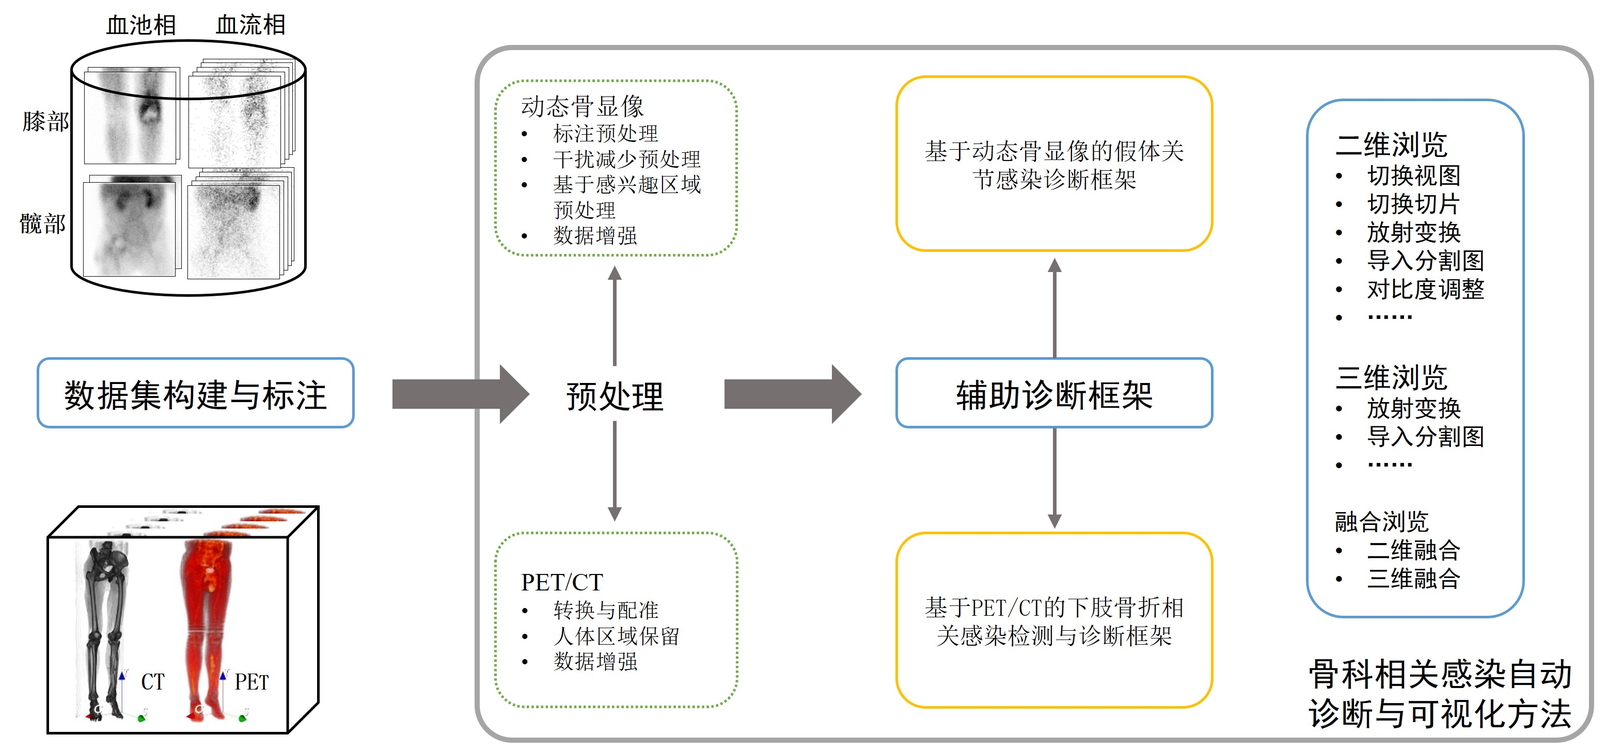
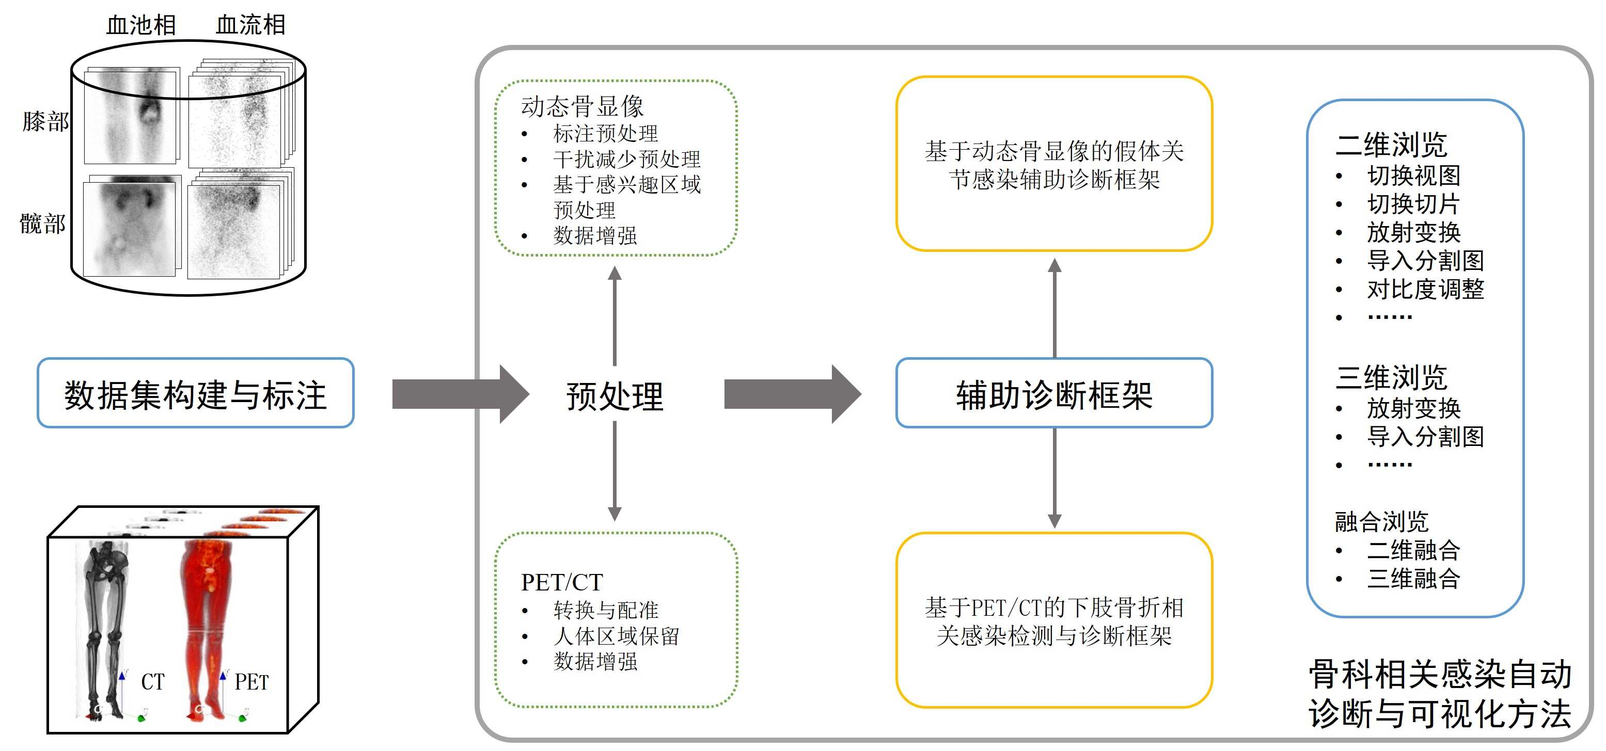
进一步的精修

diff --git a/data/chap01.tex b/data/chap01.tex
@@ -3,13 +3,13 @@
 
 \section{课题来源}
 
-本课题来源于上海市公共卫生重点学科建设项目“基于新技术、新方法的放射卫生检测适宜技术研究”（编号：GWVI-11.1-40）。本文的研究受到上海市第六人民医院核医学科的数据支持和专家的技术支持并获得上海市第六人民医院伦理委员会的批准（编号：SH6H-2022-KY-113(K)）。
+本课题来源于上海市公共卫生重点学科建设项目“基于新技术、新方法的放射卫生检测适宜技术研究”（编号：GWVI-11.1-40）。本文的研究受到上海市第六人民医院核医学科的专家技术支持和数据支持并获得上海市第六人民医院伦理委员会的批准（编号：SH6H-2022-KY-113(K)）。
 
 \section{研究背景与意义}
 
 骨骼是一种坚硬的器官\cite{morgan2021bone}，构成了大多数脊椎动物骨骼的一部分。骨骼保护身体的其他器官，产生红细胞和白细胞，储存矿物质，为身体提供结构和支持，并使活动成为可能。骨骼有各种形状和大小，有复杂的内部和外部结构\cite{de2021vertebrate}。它们重量轻，但坚固耐用，具有多种功能。然而，骨骼系统也不免于面临各种疾病和损伤的威胁，其中感染性疾病是其中之一。
 
-骨科相关感染是骨科手术和损伤后常见的并发症，涉及骨骼、关节、软组织等。主要包括骨髓炎、关节炎、滑膜炎、以及骨折相关感染和假体关节感染等。其中，骨折相关感染和假体关节感染是骨科手术中可怕且严峻的并发症\cite{sidiropoulos2022viral}。假体关节感染发生在人工关节（如人工髋关节、人工膝关节）的植入区域，对于新植入假体关节的患者来说有2\%-2.4\%的发病率，对于经历过翻修手术的患者可能达到20\%\cite{sconfienza2019diagnosis}。作为关节置换术后潜在的致命并发症之一\cite{niccoli2017bone,usuelli2019infections}，假体关节感染可引起慢性疼痛、关节功能降低和其他导致患者身体不适的症状\cite{aleksyniene2022role}。假体关节感染常用的诊断方式有实验室检测、血清学、关节液抽取、微生物培养，但这些方法都没有完美的敏感性和特异性\cite{meermans2010there,parvizi2012mark,fink2013high,paul20142013,fink2018preoperative,claassen2014preoperative}。通常来说治疗方式包括手术清除感染组织、更换假体以及抗生素治疗。
+骨科相关感染是骨科手术和损伤后常见的并发症，涉及骨骼、关节、软组织等。主要包括骨髓炎、关节炎、滑膜炎、以及骨折相关感染和假体关节感染等。其中，骨折相关感染和假体关节感染是骨科手术中可怕且严重的并发症\cite{sidiropoulos2022viral}。假体关节感染发生在人工关节（如人工髋关节、人工膝关节）的植入区域，对于新植入假体关节的患者来说有2\%-2.4\%的发病率，对于经历过翻修手术的患者可能达到20\%\cite{sconfienza2019diagnosis}。作为关节置换术后潜在的致命并发症之一\cite{niccoli2017bone,usuelli2019infections}，假体关节感染可引起慢性疼痛、关节功能降低和其他导致患者身体不适的症状\cite{aleksyniene2022role}。假体关节感染常用的诊断方式有实验室检测、血清学、关节液抽取、微生物培养，但这些方式都没有完美的敏感性和特异性\cite{meermans2010there,parvizi2012mark,fink2013high,paul20142013,fink2018preoperative,claassen2014preoperative}。假体关节感染的治疗方式包括手术清除感染组织、更换假体以及抗生素治疗。
 
 另一方面，骨折相关感染曾称为创伤后骨髓炎，是骨损伤或创伤性手术后最严重的肌肉骨骼并发症之一\cite{govaert2020diagnosing}，可能涉及手术创口感染、软组织受损引起的感染等，导致患病率增加、医疗费用昂贵和严重的诊断挑战\cite{metsemakers2017infection}。在骨折手术后，骨折相关感染的发病率为1\%-19\%\cite{ktistakis2014infection, malhotra2014open}。随着病情的发展，骨髓炎可伴有软组织感染，脓毒性关节炎伴或不伴皮肤窦道等一系列临床表现\cite{bhoil2019role}，可能需要抗生素治疗、手术清创以及骨折修复等综合治疗手段。
 
@@ -24,7 +24,7 @@
   \label{fig:chap01_DBS}
 \end{figure}
 
-对于假体关节感染，核医学成像可以显示人工关节周围是否存在异常的代谢活动，揭示潜在的感染区域。如图\ref{fig:chap01_DBS}，锝亚甲基二膦酸盐(\(^{99m}\)Tc-Methylene DiphosPhonate, \(^{99m}\)Tc-MDP)动态骨显像，也称之为骨三相，是核医学成像中第一个用于诊断假体关节感染的广泛可靠且简单影像模态\cite{niccoli2017bone}。Verberne等人\cite{verberne2016accuracy}的研究表明骨显像诊断全髋置换手术后的假体关节感染具有80\%的灵敏度和69\%的特异度。Kumar等人\cite{kumar2016comparative}发现动态骨显像在评估脓毒性的（或疼痛的）髋关节假体的敏感性、特异性和准确性分别为81\%、86\%和82\%。Zhang等人\cite{zhang2022temporal}通过在血流相中设定阈值的方法发现动态骨显像对膝关节假体感染的诊断灵敏度为94.3\%，特异度为56.0\%。根据文献和临床实践，动态骨显像诊断假体关节感染通常具有较高的敏感性，但特异性较低，尤其是经历过全膝置换手术的患者。
+对于假体关节感染，核医学成像可以显示人工关节周围是否存在异常的代谢活动，揭示潜在的感染区域。如图\ref{fig:chap01_DBS}，锝亚甲基二膦酸盐(\(^{99m}\)Tc-Methylene DiphosPhonate, \(^{99m}\)Tc-MDP)动态骨显像，也称之为骨三相，是核医学成像中第一个用于诊断假体关节感染的广泛、可靠且简单的影像模态\cite{niccoli2017bone}。Verberne等人\cite{verberne2016accuracy}的研究表明骨显像诊断全髋置换手术后的假体关节感染具有80\%的灵敏度和69\%的特异度。Kumar等人\cite{kumar2016comparative}发现动态骨显像在评估脓毒性的（或疼痛的）髋关节假体的敏感性、特异性和准确性分别为81\%、86\%和82\%。Zhang等人\cite{zhang2022temporal}通过在血流相中设定阈值的方法发现动态骨显像对膝关节假体感染的诊断灵敏度为94.3\%，特异度为56.0\%。根据以上文献和临床实践，动态骨显像诊断假体关节感染通常具有较高的敏感性，但特异性较低，尤其是经历过全膝置换手术的患者。
 
 \begin{figure}[ht]
   \centering
@@ -37,13 +37,13 @@
 
 近几年来，人工智能不断地发展，其在医学影像方面的应用也逐渐变成了关注的焦点。越来越多的深度学习方法被应用于医学影像领域的各种任务之中，如影像降噪，疾病分类，器官、组织和病灶的分割与检测、患者的预后效果预测等等\cite{ZSZD202307032,YJTY202304021}。以卷积神经网络（Convolutional Neural Network, CNN）、循环神经网络（Recurrent Neural Network，RNN）和基于注意力机制的Transformer为代表的深度学习方法因其优异的性能和较短的推理时间，经常被用来辅助核医学医生更迅速、准确地诊断病灶区域，减轻工作量。Liu等人\cite{liu2022diagnosis}（2022）提出了一种创新性多尺度CNN用于PET中阿尔茨海默病的诊断。Takahashi等人\cite{takahashi2022deep}（2022）提出了一个在PET/CT中对乳腺癌进行诊断的深度学习模型。然而，目前并没有用于假体关节感染和骨折相关感染这类骨科相关感染的自动化辅助诊断方法。为了有效地构建这种自动化辅助诊断方法，有几个问题必须前瞻性地加以考虑：
 
-（1）数据集缺失。目前在网络上缺乏针对假体关节感染的动态骨显像数据集和针对骨折相关感染的PET/CT数据集。此外，医学影像数据集通常规模较小，来源相对单一，模型训练具有挑战性。
+（1）数据集缺失。目前在网络上缺乏公开的针对假体关节感染的动态骨显像数据集和针对骨折相关感染的PET/CT数据集。此外，医学影像数据集通常规模较小，来源相对单一，模型训练具有挑战性。
 
-（2）髋关节的动态骨显像中存在生理上的高摄取区域，如膀胱和肾脏，这可能会使神经网络在进行分类时难以真正学习有用的信息并专注于病灶区域。其次，动态骨显像中包含血流相、血池相和延迟相（图\ref{fig:chap01_DBS}），且血流相和血池相中的图像序列具有时序性。因此，需要深入考虑如何充分利用动态骨显像的这些特点。最后，神经网络是一个缺乏解释的黑盒，这使得医生很难理解其预测的依据。
+（2）髋关节的动态骨显像中存在生理上的高摄取区域，如膀胱和肾脏，这可能会使神经网络在进行分类时难以学习真正有用的信息并专注于病灶区域。其次，动态骨显像中包含血流相、血池相和延迟相（图\ref{fig:chap01_DBS}），且血流相和血池相中的图像序列具有时序性。因此，需要深入考虑如何充分利用动态骨显像的这些特点。最后，神经网络是一个缺乏解释的黑盒，这使得医生很难理解其预测的依据。
 
 （3）尽管CT可以记录骨骼以及附近软组织的变化，但对骨折相关感染不太敏感。而PET中可以显示人体不同区域的代谢活性，且较高的标准摄取值反映了患有骨折相关感染的风险增加，但需要与炎症和愈合区分开来。其次，骨折相关感染的病灶区域仅占PET/CT整体影像的一小部分区域，且病灶的形状和位置多样，摄取的形式和程度也有所区别。因此，需要考虑到这些特征复杂性和多样性。最后，PET和CT都是三维的影像数据，这使得可以更全面地了解患者的解剖结构和生理活动。然而，这也给数据处理和模型设计带来了挑战。
 
-（4）骨科相关感染的自动化辅助诊断方法应以简洁直观、易于操作的形式呈现，尤其对缺乏计算机和人工智能专业知识的用户尤为重要。首先，该方法需要整合骨科相关感染的自动诊断流程，具备智能分析的能力，以协助医生更快速地做出准确的诊断决策。其次，该方法需要提供图形化界面，以方便用户操作。最后，医学影像的可视化是必不可少的功能之一，并且提供一些辅助功能，满足大多数医学影像模态的需求，以便用户可直观地阅览影像。
+（4）骨科相关感染的自动化辅助诊断方法应以简洁直观、易于操作的形式呈现，尤其对缺乏计算机和人工智能专业知识的用户尤为重要。首先，该方法需要整合骨科相关感染的自动诊断流程，具备智能分析的能力，以协助医生更快速地做出准确的诊断决策。其次，该方法需要提供图形化界面，以方便用户操作。最后，医学影像的可视化是必不可少的功能之一，并且提供一些影像分析功能，满足大多数医学影像模态的需求，以便用户可直观地阅览影像。
 
 由此，本文提出了四个主要的研究目标：
 
@@ -51,7 +51,7 @@
 
 （2）设计一个在动态骨显像上基于深度学习的假体关节感染辅助诊断框架，自动得出诊断结果，并通过类激活图等方法给医生提供决策依据和可信度。
 
-（3）设计一个在三维PET/CT上基于深度学习的骨折相关感染检测与诊断框架，从PET/CT中自动定位出病灶区域并判断出病灶区域是否存在感染。
+（3）设计一个在三维PET/CT上基于深度学习的骨折相关感染检测与诊断框架，从PET/CT中自动定位病灶区域并判断是否存在感染。
 
 （4）设计一个骨科相关感染的自动诊断与可视化方法，不仅提供智能化功能辅助非专业人员进行假体关节感染和骨折相关感染的自动诊断功能，还能够满足用户简单直观地阅览与分析医学影像。
 
@@ -66,13 +66,13 @@
 
 根据1.2小节所述，本文围绕动态骨显像假体关节感染诊断分类任务、PET/CT骨折相关感染检测诊断任务以及骨科相关感染的自动诊断与可视化方法展开研究，主要研究内容和创新点如图\ref{fig:chap01_research}所示，包含以下四个部分：
 
-（1）\textbf{数据集的构建与预处理方法的设计：}鉴于假体关节感染的动态骨显像数据集和骨折相关感染的PET/CT数据集的匮乏，本文作者与上海市第六人民医院核医学科合作，共同构建了两个重要的数据集。动态骨显像数据集纳入了在2016年1月至2021年6月期间455名患者的影像数据和相应的诊断报告，而PET/CT影像数据集则包含了2016年11月到2021年12月期间的281名患者的影像数据和诊断报告。在医学专家的指导下，通过仔细审查诊断报告和利用标注工具ITK-SNAP对数据集进行了详尽的标注工作，以确保数据的精准性和可靠性。针对动态骨显像和PET/CT影像，本文分别构建了高效的数据预处理方法。其中，动态骨显像采用了三种预处理算法和数据增强手段，而PET/CT影像则包括转换与配准、人体区域保留以及数据增强。这些预处理方法优化图像质量、标准化数据格式，并减缓无关区域和生理高摄取区域对模型性能的不良影响。
+（1）\textbf{数据集的构建与预处理方法的设计：}鉴于假体关节感染的动态骨显像数据集和骨折相关感染的PET/CT数据集的匮乏，本文作者与上海市第六人民医院核医学科合作，共同构建了两个重要的数据集。动态骨显像数据集纳入了在2016年1月至2021年6月期间455名患者的影像数据和相应的诊断报告，而PET/CT影像数据集则包含了2016年11月到2021年12月期间的281名患者的影像数据和诊断报告。在医学专家的指导下，通过仔细阅览诊断报告和使用标注工具ITK-SNAP对数据集进行了详尽的标注工作，以确保数据的精准性和可靠性。针对动态骨显像和PET/CT影像，本文分别构建了高效的数据预处理方法。其中，动态骨显像采用了三种预处理算法和数据增强手段，而PET/CT影像则包括转换与配准、人体区域保留以及数据增强。这些预处理方法优化图像质量、标准化数据格式，并减缓无关区域和生理高摄取区域对模型性能的不良影响。
 
 （2）\textbf{基于\(^{99m}\)Tc-MDP动态骨显像的假体关节感染辅助诊断框架：}为解决动态骨显像中假体关节感染诊断任务，构建了一种辅助诊断分类框架，由数据预处理和分类模型DBS-eNet组成。DBS-eNet结合了三维卷积和ConvLSTM，可以更有效地利用动态骨显像中不同相和相中的时序性图像序列。三维卷积用于在时序上提取不同相下每一张图像的生理摄取形态特征，ConvLSTM则捕捉和丰富单一图像的生理形态摄取特征，同时捕获图像序列中生理代谢的差异变化特征。实验结果表明，在五折交叉验证中，该框架在假体膝关节感染和假体髋关节感染的诊断任务上优于其他CNN，分类准确率分别达到了86.48\%和86.33\%；在独立验证中，该框架在假体膝关节感染上分类准确率达到了87.74\%，相比核医学专家们提升了13.55\%；在假体髋关节感染上分类准确率达到了86.36\%，与核医学专家们一致。统计学分析表明，该框架的诊断性能在假体膝关节感染上优于核医学专家，在假体髋关节上与核医学专家相当。
 
-（3）\textbf{基于\(^{18}\)F-FDG PET/CT三维影像的下肢骨折相关感染检测与诊断框架：}为解决PET/CT影像中下肢骨折相关感染诊断任务，本文提出了一种全自动两阶段的检测与诊断框架3DFRINet。其中，3DFRINet 由病灶检测网络和病灶诊断分类网络构成。通过双分支设计和注意力模块，病灶检测网络能够捕获和融合不同模态的多尺度细节特征，从而精准地检测出病灶区域。病灶诊断分类网络通过最大强度投影将立体影像转换为平面图像，在获取有效特征的同时，对候选区域进行进一步挖掘，以捕捉骨折相关感染的代谢形态特征，从而实现对其准确的分类。实验结果表明，3DFRINet在下肢PET/CT影像中病灶检测性能优于其他YOLO模型，其AP\(_{25}\)达到了0.9234。在骨折相关感染病灶诊断分类任务中，该方法上达到了91.55\%的分类准确率和0.9250的F1，相比较于与初级核医学医生分别提升了11.27\%和0.1045，比高级核医学医生分别提升了4.32\%和0.0419。统计学分析表明，3DFRINet具有与初级核医学医生更好或相同的诊断能力，与高级核医学医生相当的诊断性能。
+（3）\textbf{基于\(^{18}\)F-FDG PET/CT三维影像的下肢骨折相关感染检测与诊断框架：}为解决PET/CT影像中下肢骨折相关感染诊断任务，本文提出了一种全自动两阶段的检测与诊断框架3DFRINet。其中，3DFRINet 由病灶检测网络和病灶诊断分类网络构成。通过双分支设计和注意力模块，病灶检测网络能够捕获和融合不同模态的多尺度细节特征，从而精准地检测出病灶区域。病灶诊断分类网络通过最大强度投影将立体影像转换为平面图像，在获取有效特征的同时，对候选区域进行进一步挖掘，以捕捉骨折相关感染的代谢形态特征，从而实现准确的分类。实验结果表明，3DFRINet在下肢PET/CT影像中病灶检测性能优于其他YOLO模型，其AP\(_{25}\)达到了0.9234。在骨折相关感染病灶诊断分类任务中，该方法上达到了91.55\%的分类准确率和0.9250的F1，相比较于与初级核医学医生分别提升了11.27\%和0.1045，比高级核医学医生分别提升了4.32\%和0.0419。统计学分析表明，3DFRINet具有与初级核医学医生更好或相同的诊断能力，与高级核医学医生相当的诊断性能。
 
-（4）\textbf{骨科相关感染的自动诊断与可视化方法：}为了构建一个假体关节感染和骨折相关感染的自动化辅助诊断方法，本文采用PyQt6框架，设计了一个骨科相关感染的自动诊断与可视化方法。该方法旨在为医生提供一款功能强大的辅助工具，具备全面而便捷的影像阅览和智能分析功能。在智能分析方面，该方法整合了（2）和（3）中的框架，以支持假体关节感染的诊断分类和骨折相关感染的病灶自动检测和分类。在影像阅览方面，该方法支持二维、三维和融合可视化，以满足不同医学影像模态的需求。二维可视化兼容大多数医学影像模态，提供显示视图、坐标和所在坐标值的信息，切换视图、几何变换等功能；三维可视化支持PET和CT，提供了旋转、缩放等功能；融合可视化支持PET和CT融合阅览，提供了二维和三维可视化功能。
+（4）\textbf{骨科相关感染的自动诊断与可视化方法：}为了完善整个假体关节感染和骨折相关感染的自动化辅助诊断流程，本文采用PyQt6框架，设计了一个骨科相关感染的自动诊断与可视化方法。该方法旨在为医生提供一款功能强大的辅助工具，具备全面而便捷的影像阅览和智能分析功能。在智能分析方面，该方法整合了（2）和（3）中的框架，以支持假体关节感染的诊断分类和骨折相关感染的自动检测和分类。在影像阅览方面，该方法支持二维、三维和融合可视化，以满足不同医学影像模态的需求。二维可视化兼容大多数医学影像模态，提供展示视图、坐标和所在坐标影像值的信息，切换视图、几何变换等功能；三维可视化支持PET和CT，提供了旋转、缩放等功能；融合可视化支持PET和CT融合阅览，提供了二维和三维可视化功能。
 
 \section{本文的整体结构}
 
@@ -89,9 +89,9 @@
 
 第二章介绍了与本文研究内容相关的近几年国内外相关工作，总结了目前医学影像中分类和检测任务的研究进展，最后阐述了本文中假体关节感染和骨折相关感染诊断任务的特点，分析了任务的特殊性和现有的可行方法。
 
-第三章从问题定义出发，详细介绍了基于\(^{99m}\)Tc-MDP动态骨显像的假体关节感染诊断框架。内容包括数据预处理方法、深度学习方法中模型的整体结构、损失函数以及用于展示模型可解释性的可视化方法。接着，通过一系列实验评估了该诊断框架的有效性和较好的诊断性能。
+第三章从问题定义出发，详细介绍了基于\(^{99m}\)Tc-MDP动态骨显像的假体关节感染辅助诊断框架。内容包括数据预处理方法、深度学习方法中模型的整体结构、损失函数以及用于展示模型可解释性的可视化方法。接着，通过一系列实验评估了该诊断框架的有效性和较好的诊断性能。
 
-第四章同样从问题定义入手，详细介绍了基于\(^{18}\)F-FDG PET/CT三维影像的下肢骨折相关感染检测与诊断框架。内容包括数据预处理方法和框架设计。随后，通过一系列实验评估了该框架在病灶检测和诊断方面的出色表现。
+第四章同样从问题定义入手，详细介绍了基于\(^{18}\)F-FDG PET/CT三维影像的下肢骨折相关感染检测与诊断框架。内容包括数据预处理方法和框架设计。随后，通过一系列实验评估了该框架在病灶检测和诊断方面的良好表现。
 
 第五章详细地介绍了骨科相关感染的自动诊断与可视化方法，拥有智能影像分析与影像阅览功能。
 

diff --git a/data/abstract.tex b/data/abstract.tex
@@ -1,17 +1,17 @@
 % 中英文摘要和关键字
 \begin{cabstract}
 
-    骨科相关感染（假体关节感染和骨折相关感染）会导致慢性疼痛和其他造成患者不适的症状，对人类的身心健康危害的同时还有高昂的医疗费用。因此，对患者的及时评估与准确诊断是治疗、预防并发症和良好预后的关键。核医学影像是骨科相关感染中常见的诊断手段之一。动态骨显像用于诊断假体关节感染，PET/CT则用于诊断骨折相关感染。医生在动态骨显像中观察每张图像中的组织摄取形态和不同图像之间时序上的生理代谢差异这些影像学特征作为依据来进行评估与诊断。在PET/CT中则通过观察软组织的损伤程度、骨骼的断裂程度、以及高摄取区域呈现的形式和程度等多方面的影像学特征，进行综合分析并作出最终的诊断决策。
+    骨科相关感染（假体关节感染和骨折相关感染）会导致慢性疼痛和其他造成患者不适的症状，对人类的身心健康危害的同时还需要高昂的医疗费用。因此，对患者的及时评估与准确诊断是治疗、预防并发症和良好预后的关键。核医学影像是骨科相关感染中常见的诊断手段之一。动态骨显像用于诊断假体关节感染，PET/CT则用于诊断骨折相关感染。医生在动态骨显像中观察每张图像中的组织摄取形态和不同图像之间时序上的生理代谢差异这些影像学特征作为依据来进行评估与诊断。在PET/CT中则通过观察软组织的损伤程度、骨骼的断裂程度、以及高摄取区域呈现的形式等多方面的影像学特征，进行综合分析并作出最终的诊断决策。
 
-    随着人工智能的发展，越来越多计算机视觉的深度学习方法以其优异的性能、较高的准确率和较短的推理时间的特点被逐步应用于医学影像之中。然而，对于骨科相关感染，目前还没有基于深度学习的全自动诊断系统的相关研究。采用深度学习方法来实现该系统时，需要去研究解决一系列问题。例如数据集的缺乏、动态骨显像存在生理高摄取区域的干扰、具有时序性的动态骨显像包含三种相、PET/CT中病灶形态和位置多样且只占据整个影像中一小部分以及PET和CT均为三维影像等等。因此，鉴于核医学影像及相关疾病的特征，可以将骨科相关感染的自动诊断系统视为医学影像的计算机辅助诊断领域中的检测与分类任务。针对上述问题，本文的主要研究内容总结如下：
+    随着人工智能的发展，越来越多计算机视觉的深度学习方法以其优异的性能、较高的准确率和较短的推理时间等特点被逐步应用于医学影像之中。然而，对于骨科相关感染，目前还没有基于深度学习的全自动诊断方法的相关研究。采用深度学习来实现该方法时，需要去研究解决一系列问题。例如数据集的缺乏、动态骨显像存在生理高摄取区域的干扰、具有时序性的动态骨显像包含三种相、PET/CT中病灶形态和位置多样且只占据整个影像中一小部分以及PET和CT均为三维影像等等。因此，鉴于核医学影像及相关疾病的特征，可以将骨科相关感染的自动诊断方法视为医学影像的计算机辅助诊断领域中的检测与分类任务。针对上述问题，本文的主要研究内容总结如下：
 
     （1）\textbf{数据集的构建与预处理方法的设计：}对于骨科相关感染数据集的缺乏，本文作者与上海市第六人民医院核医学科合作，共同构建了两个关键数据集。其中，动态骨显像数据集纳入了从2016年1月至2021年6月之间455名患者的影像数据和相应的完整诊断报告，而PET/CT影像数据集纳入了2016年11月到2021年12月之间281名患者的相关数据。在医学专家的指导下，对数据集进行了详细的标注工作，以确保数据的准确性和可靠性。其次，针对动态骨显像和PET/CT影像，分别设计了有效的数据预处理方法，用于优化图像质量、标准化数据格式，以及降低无关区域和生理高摄取区域对模型性能的不利影响。
 
-    （2）\textbf{基于\(^{99m}\)Tc-MDP动态骨显像的假体关节感染辅助诊断框架：}针对动态骨显像中假体关节感染诊断任务，设计了结合三维卷积和ConvLSTM的辅助诊断分类模型DBS-eNet，可以更好地利用动态骨显像中不同相以及相中的时序性图像序列。其中，三维卷积在时序上提取不同相下每一张图像的生理摄取形态特征，而ConvLSTM捕捉和丰富单一图像生理形态摄取特征的同时还捕获图像序列中生理代谢的差异变化特征。实验结果表明，对于假体膝关节感染和假体髋关节感染的诊断任务，该框架在五折交叉验证中优于其他卷积神经网络，准确率分别达到了86.48\%和86.33\%；在独立验证中与核医学专家们比较，准确率在膝关节上提升了13.55\%，髋关节上保持一致。
+    （2）\textbf{基于\(^{99m}\)Tc-MDP动态骨显像的假体关节感染辅助诊断框架：}针对动态骨显像中假体关节感染诊断任务，构建了一种辅助诊断框架，由数据预处理和分类模型DBS-eNet组成。DBS-eNet结合了三维卷积和ConvLSTM，可以更好地利用动态骨显像中不同相以及相中的时序性图像序列。其中，三维卷积在时序上提取不同相下每一张图像的生理摄取形态特征，而ConvLSTM捕捉和丰富单一图像生理形态摄取特征的同时还捕获图像序列中生理代谢的差异变化特征。实验结果表明，对于假体膝关节感染和假体髋关节感染的诊断任务，该框架在五折交叉验证中优于其他卷积神经网络，准确率分别达到了86.48\%和86.33\%；在独立验证中与核医学专家们比较，准确率在膝关节上提升了13.55\%，髋关节上保持一致。
 
     （3）\textbf{基于\(^{18}\)F-FDG PET/CT三维影像的下肢骨折相关感染检测与诊断框架：}针对PET/CT影像中下肢骨折相关感染诊断任务，提出了由病灶检测网络和病灶诊断分类网络构成的两阶段框架3DFRINet。病灶检测网络通过双分支设计和注意力模块可以结合两个模态的多尺度细节特征，从而准确地检测出病灶区域。病灶诊断分类网络通过最大强度投影将立体影像转换为平面图像，获取有效特征的同时对候选区域进一步挖掘病灶的代谢形态特征，实现对骨折相关感染的准确分类。实验结果表明，该框架在下肢PET/CT影像中病灶检测性能优于其他YOLO模型，AP\(_{25}\)达到了0.9234；在骨折相关感染病灶的诊断分类中，相比较于初级核医学医生准确率提升了11.27\%，比高级核医学医生则提升了4.23\%。
 
-    （4）\textbf{骨科相关感染的自动诊断与可视化方法：}为了构建一个假体关节感染和骨折相关感染的自动化辅助诊断系统，本文采用了PyQt6框架，设计了一个骨科相关感染的自动诊断与可视化方法，用以提供全面而便捷的可视化浏览和分析功能。该方法整合了（2）和（3）的模型，支持假体关节感染的诊断分类和骨折相关感染的病灶自动检测和分类。此外，该方法支持二维、三维和PET/CT融合可视化，以满足不同医学影像模态的需求。该方法在可视化方面提供多种辅助功能，二维中包括坐标与医学影像值的显示、切换视图等；三维中包括旋转、缩放等。
+    （4）\textbf{骨科相关感染的自动诊断与可视化方法：}为了完善假体关节感染和骨折相关感染的自动化辅助诊断流程，本文采用了PyQt6框架，设计了一个骨科相关感染的自动诊断与可视化方法，用以提供全面而便捷的可视化浏览和分析功能。该方法整合了（2）和（3）的框架，支持假体关节感染的辅助诊断和骨折相关感染的辅助检测诊断。此外，该方法支持二维、三维和PET/CT融合可视化，以满足不同医学影像模态的需求。该方法在可视化方面提供多种影像分析功能，包括坐标与影像值的展示、切换视图、旋转和缩放等等。
 
 \end{cabstract}
 
